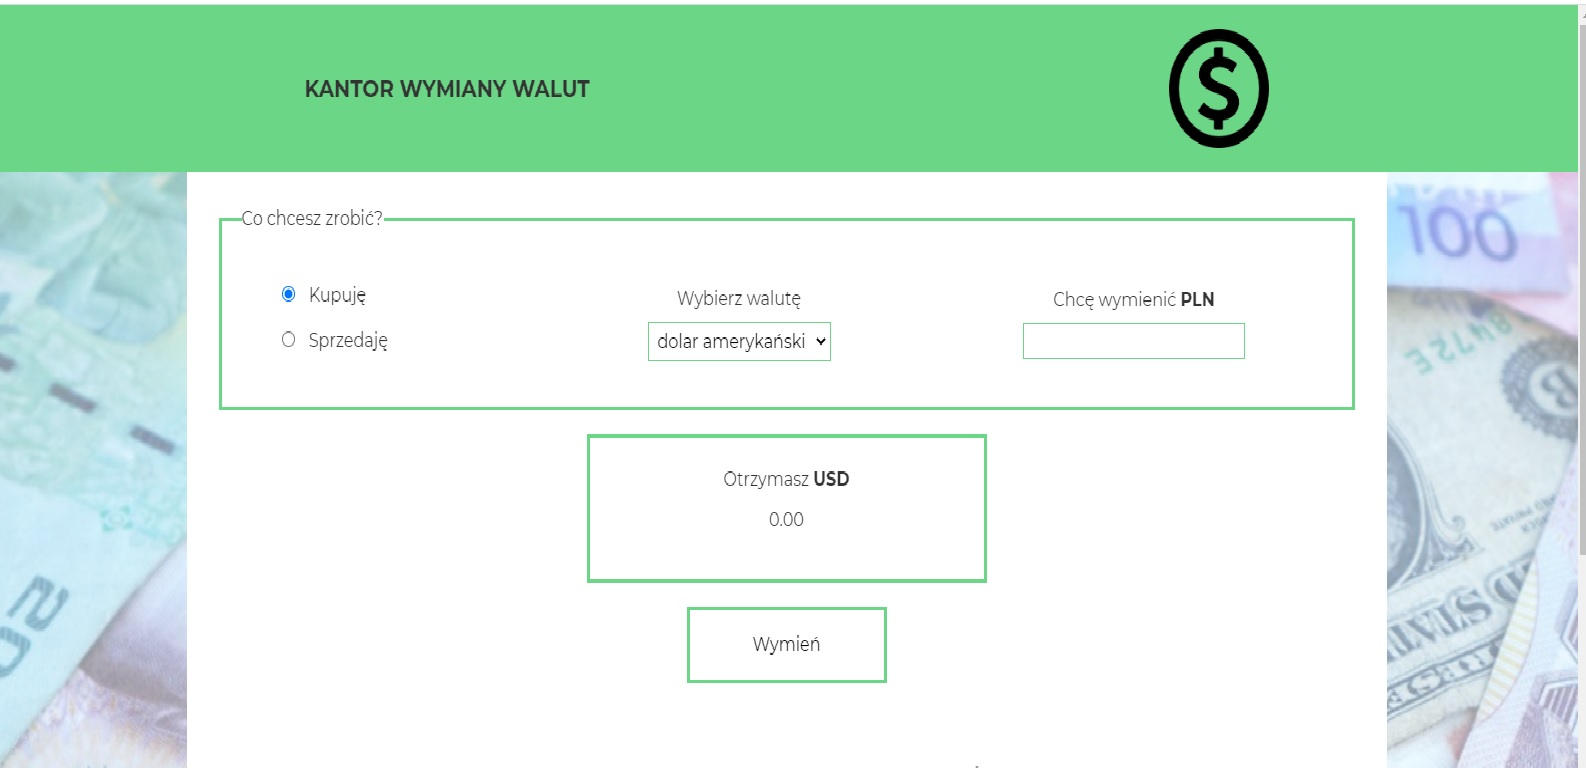
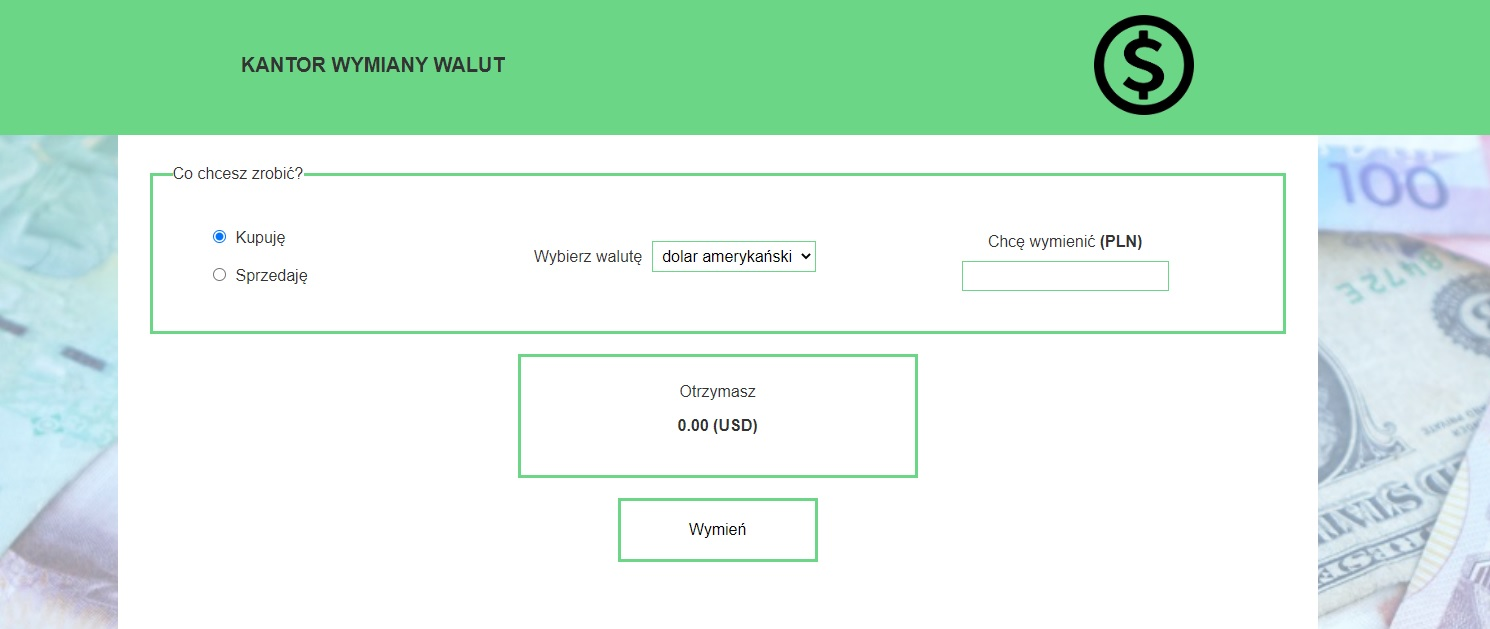
visual fixes in form, readme image added

diff --git a/src/Form/index.js b/src/Form/index.js
@@ -23,7 +23,7 @@ const Form = ({ currencies }) => {
         setAnswer(`Na rachunek powiązany z Twoim kontem zostało przelane
          ${calculateFinalValue()} ${buy ? currencies[currencySelected].symbol : "PLN"} `)
 
-    
+
     return (
         <React.Fragment>
             <form className="form"
@@ -110,11 +110,12 @@ const Form = ({ currencies }) => {
                 </fieldset>
                 <div className="form__text">
                     <p>
-                        Otrzymasz <strong>{calculateFinalValue()} ({buy ? currencies[currencySelected].symbol : "PLN"})
-
-                                    </strong>
+                        Otrzymasz
                     </p>
-                    <p className="form__paragraph"> </p>
+                    <p className="form__paragraph">
+                        {calculateFinalValue()} ({buy ? currencies[currencySelected].symbol : "PLN"})
+
+                    </p>
                 </div>
                 <button className="form__button">Wymień</button>
             </form>

diff --git a/src/Form/style.css b/src/Form/style.css
@@ -45,6 +45,7 @@
 .form__paragraph {
     display: block;
     height: 2em;
+    font-weight: bold;
 }
 
 .form__button {

diff --git a/README.md b/README.md
@@ -1,7 +1,7 @@
 # Currency Calculator
 
 
-## Want to see demo page? click [here](https://pfeszler.github.io/currency-converter/)
+## Want to see demo page? click [here](https://pfeszler.github.io/Currency-calculator-react/)
 
 Here is Currency Calculator, fully created in React JS, for me that was first project created in React all by myself. I maked it during the course "Front-End Developer" in You Code Academy. In this app you have option to calculate price of selling or buying few currencies for Złoty. First, you need to mark, if you want buy foreign currency or sell it, then you should use select to check which currency you want operate on. Last thing left is to put the amount in proper input. The final value will apear automaticly, you can also hit a button to show a paragraph, which summarise the calculation. Under input you have a handy table, which shows prices, that calculator uses. Enjoy!
 
